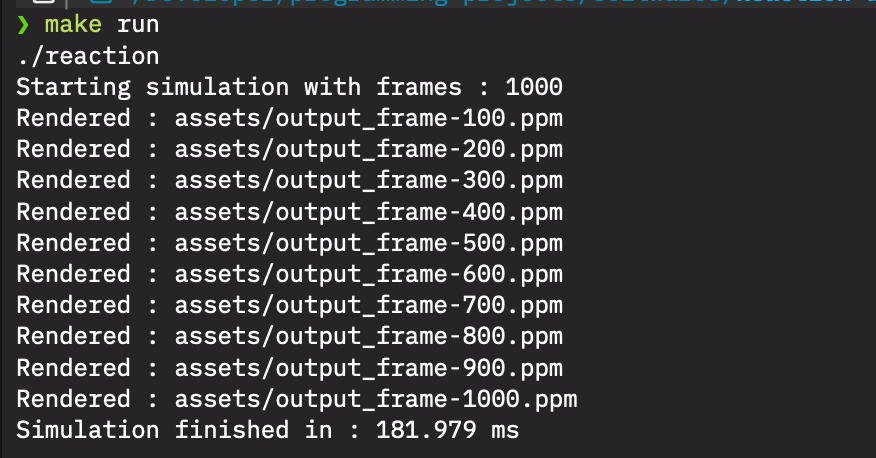
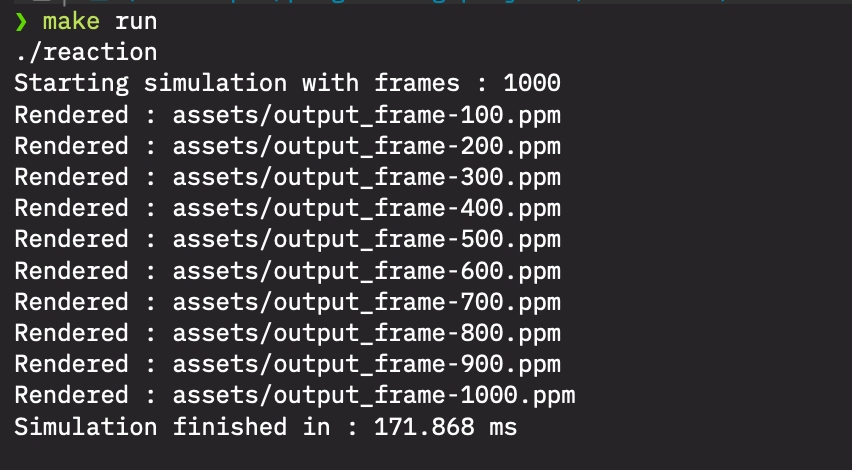
unecessary

diff --git a/Grid.h b/Grid.h
@@ -5,8 +5,6 @@
 #include <utility>
 #include <stdexcept>
 
-enum class SimulationState { Uninitialised, Running, Paused, Error };
-
 class Grid {
 private:
     size_t width;